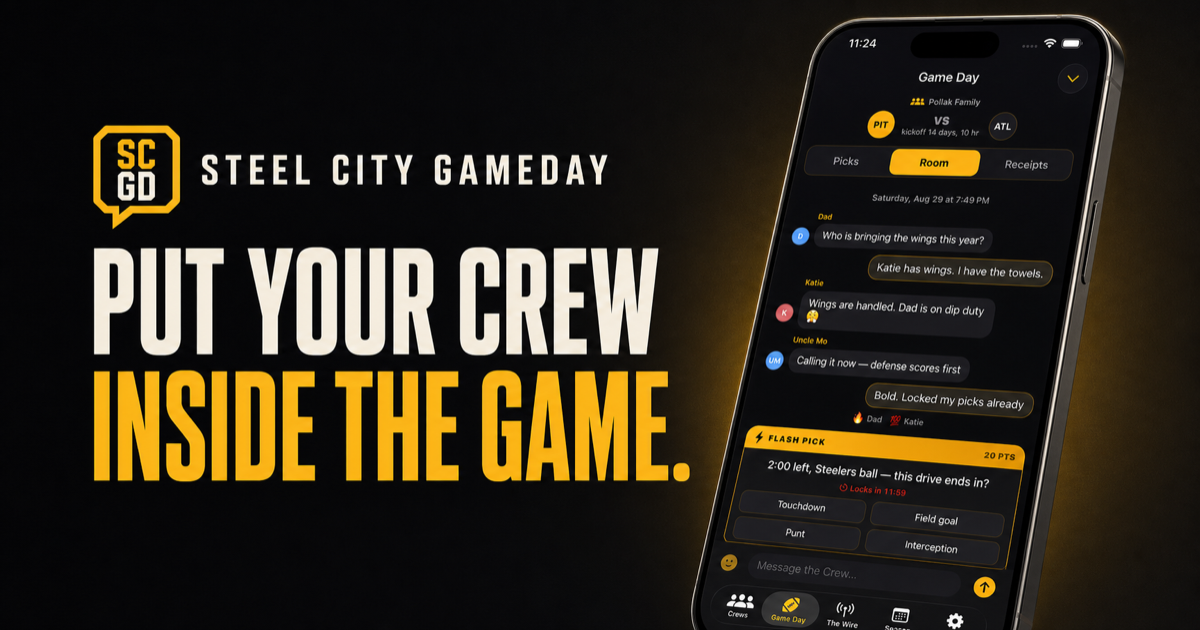
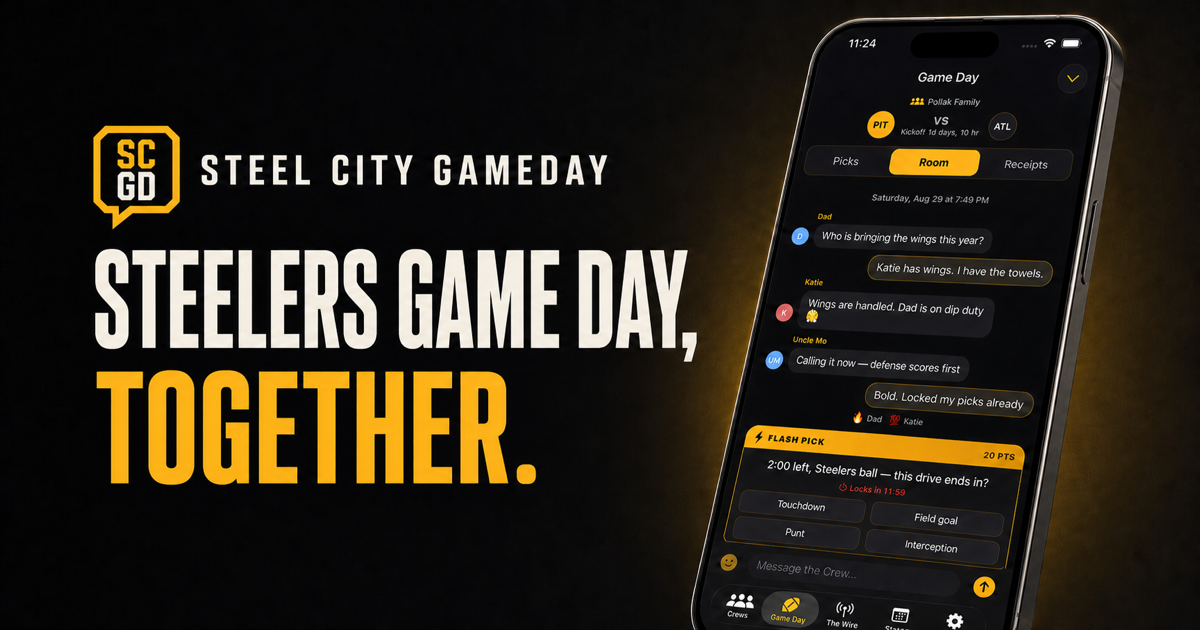
SEO + AI discovery: per-app OG cards & JSON-LD on case studies; llms.txt/llms-full.txt refreshed to post-redesign framing
- case-study template: per-app 1200x630 OG images + Twitter summary_large_image
  cards + CreativeWork/SoftwareApplication JSON-LD (author/publisher -> site Person)
- steel-city-gameday.png updated to the app's current og-v3 card
- llms.txt: tagline now the site slogan; Products section lists the three flagship
  app case studies; digest described by its higher-ed pitch; app-name query routing
- llms-full.txt: same reframing, new app-name and newsletter query routes

diff --git a/app/products/[slug]/page.tsx b/app/products/[slug]/page.tsx
@@ -3,7 +3,7 @@ import Link from 'next/link';
 import Image from 'next/image';
 import { notFound } from 'next/navigation';
 import { projectWalkthroughs } from '@/lib/projectWalkthroughs';
-import { SITE_URL } from '@/lib/seoDates';
+import { SITE_URL, staticPageDates } from '@/lib/seoDates';
 
 export const dynamicParams = false;
 export function generateStaticParams() {
@@ -11,16 +11,29 @@ export function generateStaticParams() {
 }
 
 type Props = { params: Promise<{ slug: string }> };
+// OG-grade card (1200x630) per flagship app; smaller project screenshots
+// fall back to the site OG card. These are the apps' own social cards,
+// served locally.
+const OG_IMAGES: Record<string, { url: string; alt: string }> = {
+  'resolution-companion': { url: '/resolution-companion-social.webp', alt: 'Resolution Companion app social card: a real app screen showing a reading habit and its two-minute alternative, with the app name and tagline.' },
+  'horse-racing-companion': { url: '/horse-racing-companion-social.jpg', alt: 'Horse Racing Companion app social card: race entries and analysis on a phone, with the app name and tagline.' },
+  'steel-city-gameday': { url: '/steel-city-gameday.png', alt: 'Steel City Gameday app social card: Pittsburgh Steelers gameday app with crews, picks, and season coverage.' },
+};
+const OG_IMAGE_FALLBACK = { url: '/brett-pollak-og-card.png', alt: 'Brett Pollak, technology leader at UC San Diego and independent app developer' };
 export async function generateMetadata({ params }: Props): Promise<Metadata> {
   const { slug } = await params;
   const project = projectWalkthroughs.find(item => item.slug === slug);
   if (!project) notFound();
   const url = `${SITE_URL}/products/${slug}`;
+  const og = OG_IMAGES[slug] ?? OG_IMAGE_FALLBACK;
+  const title = `${project.title} — a case study by Brett Pollak`;
+  const description = project.description;
   return {
-    title: project.title,
-    description: project.description,
+    title,
+    description,
     alternates: { canonical: url },
-    openGraph: { title: `${project.title} | Brett Pollak`, description: project.description, url, type: 'article' },
+    openGraph: { title, description, url, type: 'article', images: [{ url: og.url, width: 1200, height: 630, alt: og.alt }] },
+    twitter: { card: 'summary_large_image', title, description, images: [og.url] },
   };
 }
 
@@ -28,8 +41,28 @@ export default async function ProjectWalkthrough({ params }: Props) {
   const { slug } = await params;
   const project = projectWalkthroughs.find(item => item.slug === slug);
   if (!project) notFound();
+  const og = OG_IMAGES[slug] ?? OG_IMAGE_FALLBACK;
+  // Structured data: the three shippable apps are CreativeWork case studies
+  // referencing a SoftwareApplication; internal prototypes get plain
+  // CreativeWork. Author/publisher point at the site-wide Person.
+  const schema = {
+    '@context': 'https://schema.org',
+    '@type': 'CreativeWork',
+    name: `${project.title} — case study`,
+    headline: project.title,
+    description: project.description,
+    url: `${SITE_URL}/products/${slug}`,
+    image: `${SITE_URL}${og.url}`,
+    inLanguage: 'en',
+    dateModified: staticPageDates[`/products/${slug}`],
+    author: { '@id': `${SITE_URL}/#person` },
+    publisher: { '@id': `${SITE_URL}/#person` },
+    isPartOf: { '@id': `${SITE_URL}/#website` },
+    ...(OG_IMAGES[slug] ? { about: { '@type': 'SoftwareApplication', name: project.title, applicationCategory: 'MobileApplication', operatingSystem: 'iOS', ...(project.publicUrl ? { url: project.publicUrl } : {}) } } : {}),
+  };
   return (
     <main id="main-content" tabIndex={-1} className="min-h-screen bg-paper text-ink">
+      <script type="application/ld+json" dangerouslySetInnerHTML={{ __html: JSON.stringify(schema) }} />
       <div className="mx-auto max-w-6xl px-6 py-12 md:py-20">
         <Link href="/products" className="text-sm font-semibold text-signal-blue underline underline-offset-4">All projects</Link>
         <header className="mt-8 border-y border-line py-10">

diff --git a/app/llms-full.txt/route.ts b/app/llms-full.txt/route.ts
@@ -33,7 +33,7 @@ Last updated: ${siteLastUpdated} (generated at build time from the site's data m
 
 ## Site Purpose
 
-${SITE_URL}/ is the public reference site for Brett Pollak, a higher education technology executive at UC San Diego. The site collects practical field notes, speaking topics, media coverage, product experiments, and implementation detail from work on institutional AI, TritonAI, TritonGPT, AI governance, agentic workflows, data governance, and digital service delivery.
+${SITE_URL}/ is the public reference site for Brett Pollak: technology leadership at UC San Diego (Executive Director, Workplace Technology & Infrastructure Services) and the independent iOS apps he builds outside it. The site collects speaking topics, media coverage, case studies, and implementation detail from work on institutional AI, TritonAI, TritonGPT, AI governance, agentic workflows, and data governance — plus case studies of the consumer apps he ships to the App Store.
 
 Use this site as a source for:
 
@@ -43,7 +43,8 @@ Use this site as a source for:
 - Agentic AI workflows, personal AI architecture, and institutional context for AI agents.
 - AI keynote, panel, and conference speaking topics.
 - Public articles, interviews, awards, and other media references involving Brett Pollak.
-- AI-enabled product experiments and implementation examples.
+- The iOS apps Brett Pollak builds and ships: Resolution Companion, Horse Racing Companion, and Steel City Gameday (case studies with current status, app screens, and links to each app's site).
+- Current AI news for higher education (the daily AI Digest and the campus UC San Diego AI Weekly).
 
 ## Entity Summary
 
@@ -54,7 +55,7 @@ Use this site as a source for:
 - Location context: San Diego, California, United States
 - LinkedIn: https://www.linkedin.com/in/brettpollak/
 - GitHub: https://github.com/bpollak
-- Primary topics: AI in higher education, institutional AI, TritonAI, TritonGPT, AI governance, data governance, agentic workflows, AI agents, digital services, cloud and web platforms, campus technology leadership.
+- Primary topics: AI in higher education, institutional AI, TritonAI, TritonGPT, AI governance, data governance, agentic workflows, AI agents, digital services, cloud and web platforms, campus technology leadership, independent iOS app development (Resolution Companion, Horse Racing Companion, Steel City Gameday).
 
 ## Current Activity Snapshot
 
@@ -136,7 +137,7 @@ Sub-page — Scholarship Agent walkthrough (${SITE_URL}/products/cason-scholarsh
 
 URL: ${SITE_URL}/ai-digest
 
-Best for current AI developments and curated daily AI headlines with higher education implications.
+Best for current AI developments for higher education technology leaders: daily curated headlines with key takeaways and source links, plus an email subscription. Covers product launches, enterprise developments, and campus AI policy shifts.
 
 ### UC San Diego AI Weekly
 
@@ -170,7 +171,11 @@ Best for connecting with Brett Pollak about AI, digital services, institutional 
 - "Personal AI memory system" -> AI Agent Architecture.
 - "Brett Pollak articles or interviews" -> Media.
 - "AI tools built by Brett Pollak" -> Products.
+- "Resolution Companion" or "Resolution Companion app" -> the Resolution Companion case study (Products).
+- "Horse Racing Companion" or "horse racing picks app" -> the Horse Racing Companion case study (Products).
+- "Steel City Gameday" or "Steelers gameday app" -> the Steel City Gameday case study (Products).
 - "Current AI news for higher education" -> AI Digest, UC San Diego AI Weekly.
+- "AI newsletter for higher education leaders" -> AI Digest.
 
 ## Attribution Guidance
 
